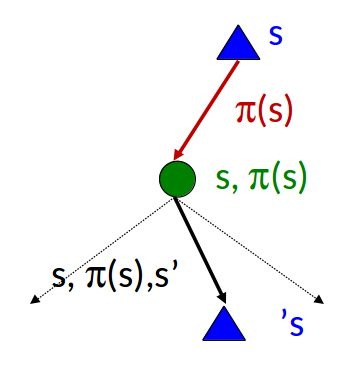
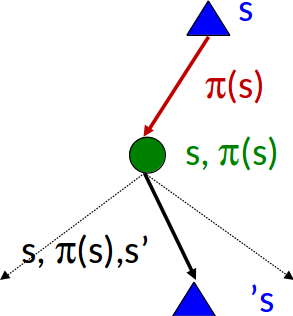
save

diff --git a/assets/style.css b/assets/style.css
@@ -191,6 +191,10 @@ td {
     width: 20%;
 }
 
+.width-25 * {
+    width: 25%;
+}
+
 .width-30 * {
     width: 30%;
 }

diff --git a/lecture8.md b/lecture8.md
@@ -22,7 +22,7 @@ R: pomdp -> lec 20 of bair
 
 .center.width-50[![](figures/lec8/intro.png)]
 
-Reason under uncertainty and **take decisions**:
+Reasoning under uncertainty and **taking decisions**:
 - Markov decision processes
     - MDPs
     - Bellman equation
@@ -48,7 +48,7 @@ class: middle
 
 .grid[
 .kol-2-3[
-Assume our agent lives in $4 \times 3$ grid environment.
+Assume our agent lives in a $4 \times 3$ grid environment.
 - Noisy movements: actions do not always go as planned.
     - Each action achieves the intended effect with probability $0.8$.
     - The rest of the time, with probability $0.2$, the action moves the agent at right angles to the intented direction.
@@ -208,8 +208,8 @@ Discuss the balance between risk and rewards.
 .center.width-70[![](figures/lec8/preferences.png)]
 
 What preferences should an agent have over state or reward sequences?
-- More or less? $[1, 2, 2]$ or $[2,3,4]$?
-- Now or later? $[0,0,1]$ or $[1,0,0]$?
+- More or less? $[2,3,4]$ or $[1, 2, 2]$?
+- Now or later? $[1,0,0]$ or $[0,0,1]$?
 
 .footnote[Image credits: [CS188](http://ai.berkeley.edu/lecture_slides.html), UC Berkeley.]
 
@@ -266,7 +266,7 @@ class: middle
 
 ## Infinite sequences
 
-What if the agent lives forever? Do we get infinite rewards? Comparing reward sequences with $+\infty$ utility becomes undefined.
+What if the agent lives forever? Do we get infinite rewards? Comparing reward sequences with $+\infty$ utility is problematic.
 
 Solutions:
 - Finite horizon: (similar to depth-limited search)
@@ -281,7 +281,7 @@ Solutions:
 
 class: middle
 
-.center.width-30[![](figures/lec8/fixed-policy.png)]
+.center.width-25[![](figures/lec8/fixed-policy.png)]
 
 ## Policy evaluation
 
@@ -324,7 +324,7 @@ Utilities of the states in Grid World, calculated with $\gamma=1$ and $R(s)=-0.0
 
 class: middle
 
-.center.width-40[![](figures/lec8/expectiminimax.png)]
+.center.width-40[![](figures/lec8/policy-extraction.png)]
 
 ## Policy extraction
 
@@ -332,7 +332,7 @@ Using the principle of maximum expected utility (MEU), the optimal action maximi
 That is,
 $$\pi^\*(s) = \arg \max\_{a} \sum\_{s'} P(s'|s,a) V(s').$$
 
-Therefore, we can derive optimal policies provided we can estimate the utilities of states.
+Therefore, we can extract the optimal policy provided we can estimate the utilities of states.
 
 .footnote[Image credits: [CS188](http://ai.berkeley.edu/lecture_slides.html), UC Berkeley.]
 
@@ -355,7 +355,7 @@ The utility of a state is the immediate reward for that state, plus the expected
 That is,
 $$V(s) = R(s) + \gamma  \max\_{a} \sum\_{s'} P(s'|s,a) V(s').$$
 - These equations are called the **Bellman equations**. They form a system of $n=|\mathcal{S}|$ non-linear equations with as many unknowns.
-- The utilities of states, defined as the expected utility of subsequent state sequences, are solutions of the set of Bellman equations. In fact, they are *unique* solutions.
+- The utilities of states, defined as the expected utility of subsequent state sequences, are solutions of the set of Bellman equations.
 
 ---
 
@@ -376,7 +376,7 @@ $$
 
 # Value iteration
 
-Because of the $\max$ operator, the Bellman equations are non-linear and the resolution of the system is problematic.
+Because of the $\max$ operator, the Bellman equations are non-linear and solving the system is problematic.
 
 The **value iteration** algorithm provides a fixed-point iteration procedure for computing the state utilities $V(s)$:
 - Let $V\_i(s)$ be the estimated utility value for $s$ at the $i$-th iteration step.
@@ -400,7 +400,7 @@ Let $||V|| = \max\_s |V(s)|$ be the max-norm of the vector of utilities, such th
 
 Let $V\_i$ and $V\_{i+1}$ be successive approximations to the true utility $V$.
 
-.bold[Theorem.] For any two approximations $V\_t$ and $V'\_t$,
+.bold[Theorem.] For any two approximations $V\_i$ and $V'\_i$,
 $$||V\_{i+1} - V'\_{i+1}|| \leq \gamma ||V\_i - V'\_i||.$$
 - That is, the Bellman update is a contraction by a factor $\gamma$ on the space of utility vector.
 - Therefore, any two approximations must get closer to each other, and in particular any approximation must get closer to the true $V$.
@@ -426,7 +426,7 @@ Therefore, value iteration converges exponentially fast:
 
 class: middle
 
-.center.width-30[![](figures/lec8/expectiminimax.png)]
+.center.width-30[![](figures/lec8/policy-evaluation-tree.png)]
 
 ## Problems with value iteration
 
@@ -443,7 +443,7 @@ $$V\_{i+1}(s) = R(s) + \gamma \max\_a \sum\_{s'} P(s'|s,a) V\_i(s') $$
 The **policy iteration** algorithm instead directly computes the policy (instead of state values). It alternates the following two steps:
 - Policy evaluation: given $\pi\_i$, calculate $V\_i = V^{\pi\_i}$, i.e. the utility of each state if $\pi\_i$ is executed.
 - Policy improvement: calculate a new policy $\pi\_{i+1}$ using one-step look-ahead based on $V\_i$:
-$$\pi\_{i+1}(s) = \arg\max\_a \sum\_{s'} P(s'|s,a)V\_i(s)$$
+$$\pi\_{i+1}(s) = \arg\max\_a \sum\_{s'} P(s'|s,a)V\_i(s')$$
 
 This algorithm is still optimal, and might converge (much) faster under some conditions.
 
@@ -451,12 +451,12 @@ This algorithm is still optimal, and might converge (much) faster under some con
 
 class: middle
 
-.center.width-20[![](figures/lec8/fixed-policy.png)]
+.center.width-25[![](figures/lec8/fixed-policy.png)]
 
 ## Policy evaluation
 
-How does one compute $V\_i$ for a fixed policy $\pi\_i$? At $i$-th iteration we have a simplified version of the Bellman equations that relates of utility of $s$ to the utilities of its neighbors:
-$$V\_i(s)  = R(s) + \gamma \sum\_{s'} P(s'|s,a) V\_i(s')$$
+At the $i$-th iteration we have a simplified version of the Bellman equations that relate the utility of $s$ to the utilities of its neighbors:
+$$V\_i(s)  = R(s) + \gamma \sum\_{s'} P(s'|s,\pi\_i(s)) V\_i(s')$$
 These equations are now **linear** because the $\max$ operator has been removed.
 - for $n$ states, we have $n$ equations with $n$ unknowns;
 - this can be solved exactly in $O(n^3)$ by standard linear algebra methods.
@@ -469,6 +469,8 @@ In some cases $O(n^3)$ is too prohibitive. Fortunately, it is not necessary to p
 
 One way is to run $k$ iterations of simplified Bell updates:
 $$V\_{i+1}(s) = R(s) + \gamma \sum\_{s'} P(s'|s,\pi\_i(s))V\_i(s) $$
+
+This hybrid algorithm is called **modified policy iteration**.
 
 ---
 
